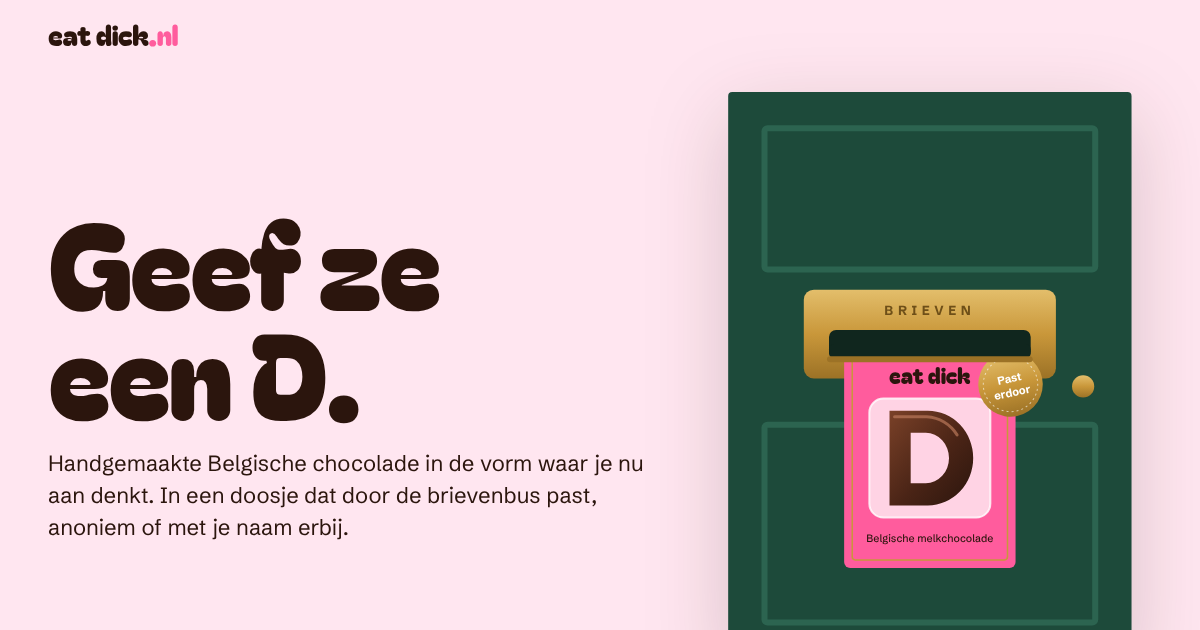
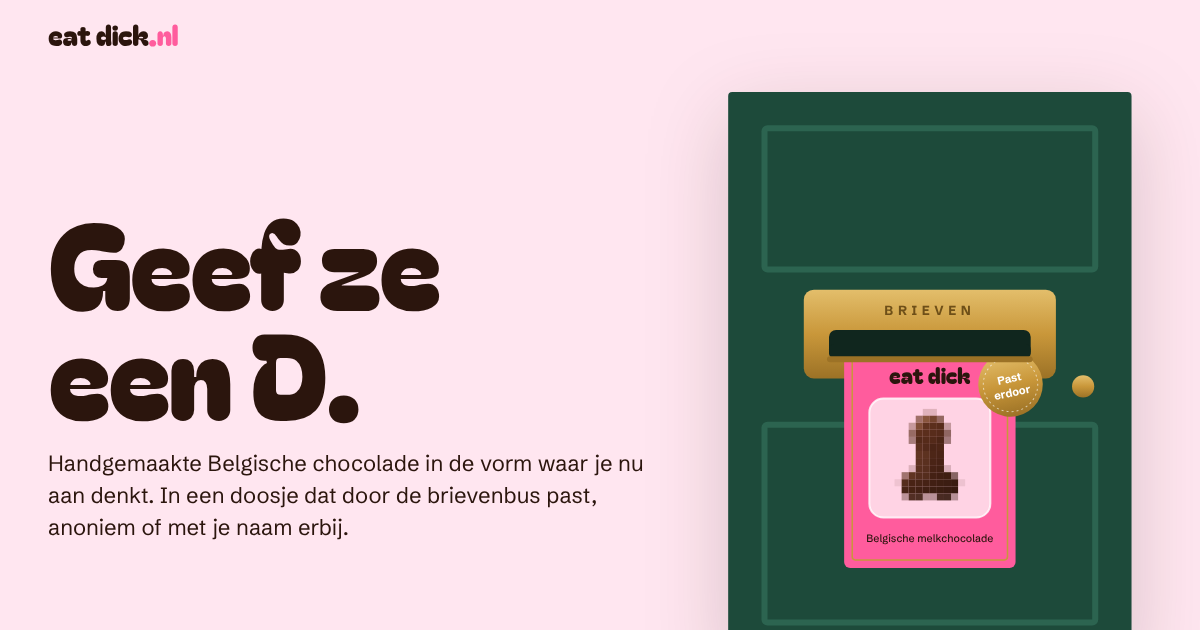
Show the real product, pixelated by default with a Laat zien reveal
Claude-Session: https://claude.ai/code/session_01Vqvhju6AWxPjg54zsPsUv3

Changed region(s): [[0.74, 0.6333, 0.8325, 0.8143]]

diff --git a/index.html b/index.html
@@ -49,8 +49,8 @@
         </ul>
       </div>
 
-      <figure class="hero-art" aria-hidden="true">
-        <svg viewBox="0 0 440 560" class="door" focusable="false">
+      <figure class="hero-art">
+        <svg viewBox="0 0 440 560" class="door" focusable="false" aria-hidden="true">
           <defs>
             <linearGradient id="choc" x1="0" y1="0" x2="1" y2="1">
               <stop offset="0" stop-color="#7A4128"/>
@@ -85,8 +85,8 @@
                 <rect x="8" y="8" width="154" height="204" rx="3" fill="none" stroke="#C9973A" stroke-width="1.5"/>
                 <text x="85" y="38" text-anchor="middle" class="box-mark">eat dick</text>
                 <rect x="25" y="52" width="120" height="118" rx="14" fill="#FFD3E4"/>
-                <path fill="url(#choc)" fill-rule="evenodd" d="M45 64h38a45 47 0 0 1 0 94H45z M66 86h15a23 25 0 0 1 0 50H66z"/>
-                <path d="M50 70h32a39 41 0 0 1 30 18" fill="none" stroke="#B9785A" stroke-width="3" stroke-linecap="round" opacity=".7"/>
+                <use class="art-px" href="#dick-px" x="43" y="62" width="84" height="94"/>
+                <use class="art-clear" href="#dick" x="43" y="62" width="84" height="94"/>
                 <g clip-path="url(#window)">
                   <rect class="shine" x="-60" y="30" width="34" height="200" fill="#fff" opacity=".45" transform="rotate(24 85 111)"/>
                 </g>
@@ -105,6 +105,10 @@
           <rect x="120" y="250" width="200" height="14" rx="5" fill="#10261E"/>
           <rect x="118" y="262" width="204" height="6" rx="3" fill="#9C7226"/>
         </svg>
+        <figcaption class="reveal-bar">
+          <span>Gepixeld, voor als je collega meekijkt.</span>
+          <button class="btn btn-secondary reveal" type="button" data-reveal aria-pressed="false">Laat zien</button>
+        </figcaption>
       </figure>
     </section>
 
@@ -115,12 +119,20 @@
       <p class="section-intro">Gegoten van Belgische chocolade, verpakt in een roze doos met gouden rand. Er zit een kaartje bij voor je boodschap, of juist niet.</p>
 
       <article class="product product-featured" data-product="single">
-        <div class="product-art" aria-hidden="true">
-          <svg viewBox="0 0 220 260"><use href="#art-single"/></svg>
+        <div class="product-art">
+          <svg viewBox="0 0 220 260" aria-hidden="true">
+            <rect x="25" y="20" width="170" height="220" rx="6" fill="#FF5C9D"/>
+            <rect x="33" y="28" width="154" height="204" rx="3" fill="none" stroke="#C9973A" stroke-width="1.5"/>
+            <text x="110" y="58" text-anchor="middle" class="box-mark">eat dick</text>
+            <rect x="50" y="72" width="120" height="118" rx="14" fill="#FFD3E4" stroke="#fff" stroke-width="2"/>
+            <use class="art-px" href="#dick-px" x="70" y="84" width="84" height="94"/><use class="art-clear" href="#dick" x="70" y="84" width="84" height="94"/>
+            <text x="110" y="214" text-anchor="middle" class="box-small">Belgische melkchocolade</text>
+          </svg>
+          <button class="btn btn-quiet reveal" type="button" data-reveal aria-pressed="false">Laat zien</button>
         </div>
         <div class="product-body">
           <h3>De D</h3>
-          <p>Eén D van 120 gram in een geschenkdoos die door de brievenbus past. Onze bestseller, verwachten we.</p>
+          <p>Eén D van 120 gram, levensecht van vorm, in een geschenkdoos die door de brievenbus past. Onze bestseller, verwachten we.</p>
           <ul class="flavours" aria-label="Smaken">
             <li>Melk</li><li>Puur</li><li>Wit</li><li>Pindakaas</li>
           </ul>
@@ -132,7 +144,18 @@
       <div class="product-pair">
         <article class="product" data-product="mini">
           <div class="product-art" aria-hidden="true">
-            <svg viewBox="0 0 220 220"><use href="#art-mini"/></svg>
+            <svg viewBox="0 0 220 220">
+            <path d="M52 26h116l16 178H36z" fill="#FFD3E4"/>
+            <path d="M52 26h116l2 22H50z" fill="#FF5C9D"/>
+            <path d="M50 48h120" stroke="#C9973A" stroke-width="1.5"/>
+            <circle cx="110" cy="116" r="46" fill="#fff" opacity=".75"/>
+            <use class="art-px" href="#dick-px" x="78" y="86" width="24" height="27"/><use class="art-clear" href="#dick" x="78" y="86" width="24" height="27"/>
+            <use class="art-px" href="#dick-px" x="112" y="86" width="24" height="27"/><use class="art-clear" href="#dick" x="112" y="86" width="24" height="27"/>
+            <use class="art-px" href="#dick-px" x="96" y="104" width="24" height="27"/><use class="art-clear" href="#dick" x="96" y="104" width="24" height="27"/>
+            <use class="art-px" href="#dick-px" x="78" y="122" width="24" height="27"/><use class="art-clear" href="#dick" x="78" y="122" width="24" height="27"/>
+            <use class="art-px" href="#dick-px" x="112" y="122" width="24" height="27"/><use class="art-clear" href="#dick" x="112" y="122" width="24" height="27"/>
+            <text x="110" y="186" text-anchor="middle" class="box-small">12 mini's</text>
+          </svg>
           </div>
           <div class="product-body">
             <h3>Mini D's</h3>
@@ -144,7 +167,18 @@
 
         <article class="product" data-product="party">
           <div class="product-art" aria-hidden="true">
-            <svg viewBox="0 0 220 220"><use href="#art-party"/></svg>
+            <svg viewBox="0 0 220 220">
+            <rect x="18" y="50" width="184" height="130" rx="6" fill="#FF5C9D"/>
+            <rect x="26" y="58" width="168" height="114" rx="3" fill="none" stroke="#C9973A" stroke-width="1.5"/>
+            <rect x="36" y="70" width="148" height="82" rx="10" fill="#FFD3E4" stroke="#fff" stroke-width="2"/>
+            <use class="art-px" href="#dick-px" x="48" y="78" width="28" height="31"/><use class="art-clear" href="#dick" x="48" y="78" width="28" height="31"/>
+            <use class="art-px" href="#dick-px" x="96" y="78" width="28" height="31"/><use class="art-clear" href="#dick" x="96" y="78" width="28" height="31"/>
+            <use class="art-px" href="#dick-px" x="144" y="78" width="28" height="31"/><use class="art-clear" href="#dick" x="144" y="78" width="28" height="31"/>
+            <use class="art-px" href="#dick-px" x="48" y="114" width="28" height="31"/><use class="art-clear" href="#dick" x="48" y="114" width="28" height="31"/>
+            <use class="art-px" href="#dick-px" x="96" y="114" width="28" height="31"/><use class="art-clear" href="#dick" x="96" y="114" width="28" height="31"/>
+            <use class="art-px" href="#dick-px" x="144" y="114" width="28" height="31"/><use class="art-clear" href="#dick" x="144" y="114" width="28" height="31"/>
+            <text x="110" y="166" text-anchor="middle" class="box-small">Zes stuks, voor de hele groep</text>
+          </svg>
           </div>
           <div class="product-body">
             <h3>Het vrijgezellenpakket</h3>
@@ -221,8 +255,8 @@
         <p>We gieten de eerste batch voor <span data-launch>Valentijnsdag 2027</span>. Zet je op de lijst, dan krijg je als eerste een mail en <span data-discount>15</span>% korting op je eerste bestelling.</p>
       </details>
       <details>
-        <summary>Is het echt een letter D?</summary>
-        <p>Nee. Het is de vorm waar je aan dacht toen je de naam van deze site las. De D staat op de doos.</p>
+        <summary>Waarom is hij gepixeld?</summary>
+        <p>Omdat er misschien iemand over je schouder meekijkt. Druk op Laat zien, dan zie je hem zoals hij in de doos zit.</p>
       </details>
       <details>
         <summary>Is het echt anoniem?</summary>
@@ -311,45 +345,22 @@
   <!-- Product illustrations -->
   <svg width="0" height="0" class="defs" aria-hidden="true" focusable="false">
     <defs>
-      <linearGradient id="choc2" x1="0" y1="0" x2="1" y2="1">
-        <stop offset="0" stop-color="#7A4128"/><stop offset=".55" stop-color="#4A2416"/><stop offset="1" stop-color="#2B150D"/>
-      </linearGradient>
-      <symbol id="d-letter" viewBox="0 0 84 94">
-        <path fill="url(#choc2)" fill-rule="evenodd" d="M0 0h38a45 47 0 0 1 0 94H0z M21 22h15a23 25 0 0 1 0 50H21z"/>
-        <path d="M5 6h32a39 41 0 0 1 30 18" fill="none" stroke="#B9785A" stroke-width="3" stroke-linecap="round" opacity=".7"/>
+      <linearGradient id="choc-us" gradientUnits="userSpaceOnUse" x1="0" y1="0" x2="84" y2="94"><stop offset="0" stop-color="#7A4128"/><stop offset=".55" stop-color="#4A2416"/><stop offset="1" stop-color="#2B150D"/></linearGradient>
+      <symbol id="dick" viewBox="0 0 84 94">
+        <circle cx="28" cy="76" r="15" fill="url(#choc-us)"/>
+<circle cx="56" cy="76" r="15" fill="url(#choc-us)"/>
+<path d="M42 70v12" stroke="#24110A" stroke-width="2" stroke-linecap="round" opacity=".45"/>
+<rect x="28" y="24" width="28" height="56" rx="14" fill="url(#choc-us)"/>
+<path d="M23 30C23 14 33 5 42 5s19 9 19 25c0 4-8 6-19 4C31 36 23 34 23 30z" fill="url(#choc-us)"/>
+<path d="M26 32q16 8 32 0" fill="none" stroke="#24110A" stroke-width="2" stroke-linecap="round" opacity=".55"/>
+<path d="M35 40v30" stroke="#B9785A" stroke-width="3" stroke-linecap="round" opacity=".6"/>
+<path d="M31 18q5-8 14-8" fill="none" stroke="#D49A78" stroke-width="3" stroke-linecap="round" opacity=".75"/>
+<path d="M18 72a10 10 0 0 1 8-8" fill="none" stroke="#B9785A" stroke-width="2.5" stroke-linecap="round" opacity=".55"/>
       </symbol>
-      <g id="art-single">
-        <rect x="25" y="20" width="170" height="220" rx="6" fill="#FF5C9D"/>
-        <rect x="33" y="28" width="154" height="204" rx="3" fill="none" stroke="#C9973A" stroke-width="1.5"/>
-        <text x="110" y="58" text-anchor="middle" class="box-mark">eat dick</text>
-        <rect x="50" y="72" width="120" height="118" rx="14" fill="#FFD3E4" stroke="#fff" stroke-width="2"/>
-        <use href="#d-letter" x="70" y="84" width="84" height="94"/>
-        <text x="110" y="214" text-anchor="middle" class="box-small">Belgische melkchocolade</text>
-      </g>
-      <g id="art-mini">
-        <path d="M52 26h116l16 178H36z" fill="#FFD3E4"/>
-        <path d="M52 26h116l2 22H50z" fill="#FF5C9D"/>
-        <path d="M50 48h120" stroke="#C9973A" stroke-width="1.5"/>
-        <circle cx="110" cy="116" r="46" fill="#fff" opacity=".75"/>
-        <use href="#d-letter" x="78" y="86" width="24" height="27"/>
-        <use href="#d-letter" x="112" y="86" width="24" height="27"/>
-        <use href="#d-letter" x="96" y="104" width="24" height="27"/>
-        <use href="#d-letter" x="78" y="122" width="24" height="27"/>
-        <use href="#d-letter" x="112" y="122" width="24" height="27"/>
-        <text x="110" y="186" text-anchor="middle" class="box-small">12 mini's</text>
-      </g>
-      <g id="art-party">
-        <rect x="18" y="50" width="184" height="130" rx="6" fill="#FF5C9D"/>
-        <rect x="26" y="58" width="168" height="114" rx="3" fill="none" stroke="#C9973A" stroke-width="1.5"/>
-        <rect x="36" y="70" width="148" height="82" rx="10" fill="#FFD3E4" stroke="#fff" stroke-width="2"/>
-        <use href="#d-letter" x="48" y="78" width="28" height="31"/>
-        <use href="#d-letter" x="96" y="78" width="28" height="31"/>
-        <use href="#d-letter" x="144" y="78" width="28" height="31"/>
-        <use href="#d-letter" x="48" y="114" width="28" height="31"/>
-        <use href="#d-letter" x="96" y="114" width="28" height="31"/>
-        <use href="#d-letter" x="144" y="114" width="28" height="31"/>
-        <text x="110" y="166" text-anchor="middle" class="box-small">Zes stuks, voor de hele groep</text>
-      </g>
+      <symbol id="dick-px" viewBox="0 0 84 94"><rect x="35" y="0" width="7" height="7" fill="#64341F" opacity="0.2"/><rect x="42" y="0" width="7" height="7" fill="#62321F" opacity="0.2"/><rect x="28" y="7" width="7" height="7" fill="#6F3D27" opacity="0.66"/><rect x="35" y="7" width="7" height="7" fill="#89553D"/><rect x="42" y="7" width="7" height="7" fill="#75442F"/><rect x="49" y="7" width="7" height="7" fill="#5C2F1C" opacity="0.66"/><rect x="21" y="14" width="7" height="7" fill="#64331F" opacity="0.36"/><rect x="28" y="14" width="7" height="7" fill="#814E37"/><rect x="35" y="14" width="7" height="7" fill="#61321F"/><rect x="42" y="14" width="7" height="7" fill="#5B2E1C"/><rect x="49" y="14" width="7" height="7" fill="#582C1B"/><rect x="56" y="14" width="7" height="7" fill="#562B1A" opacity="0.35"/><rect x="21" y="21" width="7" height="7" fill="#61321E" opacity="0.65"/><rect x="28" y="21" width="7" height="7" fill="#5E301D"/><rect x="35" y="21" width="7" height="7" fill="#5B2E1C"/><rect x="42" y="21" width="7" height="7" fill="#582C1B"/><rect x="49" y="21" width="7" height="7" fill="#552A1A"/><rect x="56" y="21" width="7" height="7" fill="#522919" opacity="0.64"/><rect x="21" y="28" width="7" height="7" fill="#562C1A" opacity="0.52"/><rect x="28" y="28" width="7" height="7" fill="#532A19"/><rect x="35" y="28" width="7" height="7" fill="#562B1A"/><rect x="42" y="28" width="7" height="7" fill="#532919"/><rect x="49" y="28" width="7" height="7" fill="#4B2516"/><rect x="56" y="28" width="7" height="7" fill="#492415" opacity="0.51"/><rect x="28" y="35" width="7" height="7" fill="#5B2F1E"/><rect x="35" y="35" width="7" height="7" fill="#532A1B"/><rect x="42" y="35" width="7" height="7" fill="#4A2416"/><rect x="49" y="35" width="7" height="7" fill="#4C2516"/><rect x="28" y="42" width="7" height="7" fill="#613422"/><rect x="35" y="42" width="7" height="7" fill="#5D3220"/><rect x="42" y="42" width="7" height="7" fill="#4D2617"/><rect x="49" y="42" width="7" height="7" fill="#4A2416"/><rect x="28" y="49" width="7" height="7" fill="#5D3220"/><rect x="35" y="49" width="7" height="7" fill="#5A301F"/><rect x="42" y="49" width="7" height="7" fill="#4A2416"/><rect x="49" y="49" width="7" height="7" fill="#472215"/><rect x="21" y="56" width="7" height="7" fill="#4F2718" opacity="0.2"/><rect x="28" y="56" width="7" height="7" fill="#5A301F"/><rect x="35" y="56" width="7" height="7" fill="#572E1E"/><rect x="42" y="56" width="7" height="7" fill="#472215"/><rect x="49" y="56" width="7" height="7" fill="#442114"/><rect x="56" y="56" width="7" height="7" fill="#411F13" opacity="0.2"/><rect x="14" y="63" width="7" height="7" fill="#633624" opacity="0.61"/><rect x="21" y="63" width="7" height="7" fill="#603422"/><rect x="28" y="63" width="7" height="7" fill="#572E1E"/><rect x="35" y="63" width="7" height="7" fill="#552D1D"/><rect x="42" y="63" width="7" height="7" fill="#442114"/><rect x="49" y="63" width="7" height="7" fill="#411F13"/><rect x="56" y="63" width="7" height="7" fill="#3F1E12"/><rect x="63" y="63" width="7" height="7" fill="#3C1D12" opacity="0.61"/><rect x="7" y="70" width="7" height="7" fill="#4D2617" opacity="0.09"/><rect x="14" y="70" width="7" height="7" fill="#552C1C"/><rect x="21" y="70" width="7" height="7" fill="#492315"/><rect x="28" y="70" width="7" height="7" fill="#482416"/><rect x="35" y="70" width="7" height="7" fill="#462215"/><rect x="42" y="70" width="7" height="7" fill="#411F13"/><rect x="49" y="70" width="7" height="7" fill="#3E1E12"/><rect x="56" y="70" width="7" height="7" fill="#3C1D12"/><rect x="63" y="70" width="7" height="7" fill="#391C11"/><rect x="70" y="70" width="7" height="7" fill="#371B10" opacity="0.09"/><rect x="14" y="77" width="7" height="7" fill="#482315"/><rect x="21" y="77" width="7" height="7" fill="#462214"/><rect x="28" y="77" width="7" height="7" fill="#432014"/><rect x="35" y="77" width="7" height="7" fill="#401F13"/><rect x="42" y="77" width="7" height="7" fill="#3D1E12"/><rect x="49" y="77" width="7" height="7" fill="#3B1D11"/><rect x="56" y="77" width="7" height="7" fill="#391B11"/><rect x="63" y="77" width="7" height="7" fill="#361A10"/><rect x="14" y="84" width="7" height="7" fill="#462214" opacity="0.36"/><rect x="21" y="84" width="7" height="7" fill="#432014" opacity="0.92"/><rect x="28" y="84" width="7" height="7" fill="#401F13" opacity="0.92"/><rect x="35" y="84" width="7" height="7" fill="#3F1E12" opacity="0.36"/><rect x="42" y="84" width="7" height="7" fill="#3B1D11" opacity="0.36"/><rect x="49" y="84" width="7" height="7" fill="#391B11" opacity="0.92"/><rect x="56" y="84" width="7" height="7" fill="#361A10" opacity="0.92"/><rect x="63" y="84" width="7" height="7" fill="#35190F" opacity="0.36"/></symbol>
+      
+      
+      
     </defs>
   </svg>
 </body>

diff --git a/app.js b/app.js
@@ -66,6 +66,27 @@
   if (cfg.launchLabel) $all("[data-launch]").forEach(function (el) { el.textContent = cfg.launchLabel; });
   if (cfg.earlyBirdDiscount) $all("[data-discount]").forEach(function (el) { el.textContent = cfg.earlyBirdDiscount; });
 
+  /* ---------- censor / reveal ---------- */
+  var revealButtons = $all("[data-reveal]");
+  var revealedOnce = false;
+  function setRevealed(on) {
+    document.documentElement.classList.toggle("uncensored", on);
+    revealButtons.forEach(function (b) {
+      b.setAttribute("aria-pressed", on ? "true" : "false");
+      b.textContent = on ? "Pixels terug" : "Laat zien";
+    });
+    if (on && !revealedOnce) {
+      revealedOnce = true;
+      track("Onthuld", { variant: variant });
+    }
+  }
+  revealButtons.forEach(function (b) {
+    b.addEventListener("click", function () {
+      setRevealed(!document.documentElement.classList.contains("uncensored"));
+    });
+  });
+  if (params.get("onthul") === "1") setRevealed(true);
+
   /* ---------- form submission ---------- */
   function encode(data) {
     return Object.keys(data).map(function (k) {

diff --git a/styles.css b/styles.css
@@ -585,3 +585,25 @@ legend { font-weight: 700; margin-bottom: .5rem; font-size: 1rem; }
 /* Legal page */
 .legal h3 { font: 700 var(--step-1)/1.3 var(--text); margin-top: 2rem; }
 .legal p { max-width: var(--measure); margin-top: .5rem; }
+
+/* Censored by default; the reveal button uncensors every illustration on the page. */
+.art-clear { display: none; }
+.uncensored .art-clear { display: inline; }
+.uncensored .art-px { display: none; }
+
+.reveal-bar {
+  display: flex;
+  flex-wrap: wrap;
+  align-items: center;
+  justify-content: flex-end;
+  gap: .5rem 1rem;
+  max-width: 28rem;
+  margin: 1rem 0 0 auto;
+  font-size: var(--step--1);
+  color: var(--cocoa);
+}
+.reveal { min-height: 2.75rem; padding: .5rem 1.25rem; font-size: 1rem; }
+@media (max-width: 52rem) {
+  .reveal-bar { justify-content: center; margin: .75rem auto 0; }
+}
+.product-featured .product-art { display: grid; justify-items: center; gap: 1rem; }

diff --git a/README.md b/README.md
@@ -11,6 +11,7 @@ so no one is misled about stock and there's no fake "sold out".
 | `Bestelklik` | someone clicks Bestel on a product | `product`, `variant` |
 | `Wachtlijst` | someone submits the waitlist form | `product`, `variant`, `gelegenheid`, `verzending` |
 | `Gedeeld` | someone shares after signing up | `kanaal` |
+| `Onthuld` | someone presses Laat zien to uncensor the product (once per session) | `variant` |
 | `Nooit meer` | someone adds an address to the opt-out list | — |
 
 Each submission also lands in Netlify Forms (`wachtlijst`), with the email, product, price variant, price, occasion and delivery choice.
@@ -26,6 +27,15 @@ Every visitor gets one price variant per session (`config.js`):
 | Vrijgezellenpakket | € 49,95 | € 99,95 |
 
 Force a variant with `?prijs=a` or `?prijs=b`, for example to link a specific audience to a specific price.
+
+### Censored by default
+
+The product is shown pixelated until the visitor presses **Laat zien**, which uncensors every illustration on the page. The share image (`og.png`) stays pixelated.
+`?onthul=1` opens the page uncensored, which is handy for a screen recording of the reveal.
+The reveal rate (`Onthuld` / visitors) is a free extra signal of curiosity.
+
+Pixelation lowers the risk on social platforms but doesn't remove it: automated moderation on Instagram and TikTok can still flag a pixelated phallic shape.
+For posts, lead with the box, the letterbox and the reveal moment.
 
 ### Go / no-go (after at least 300 visitors per variant, 3–4 weeks)
 
